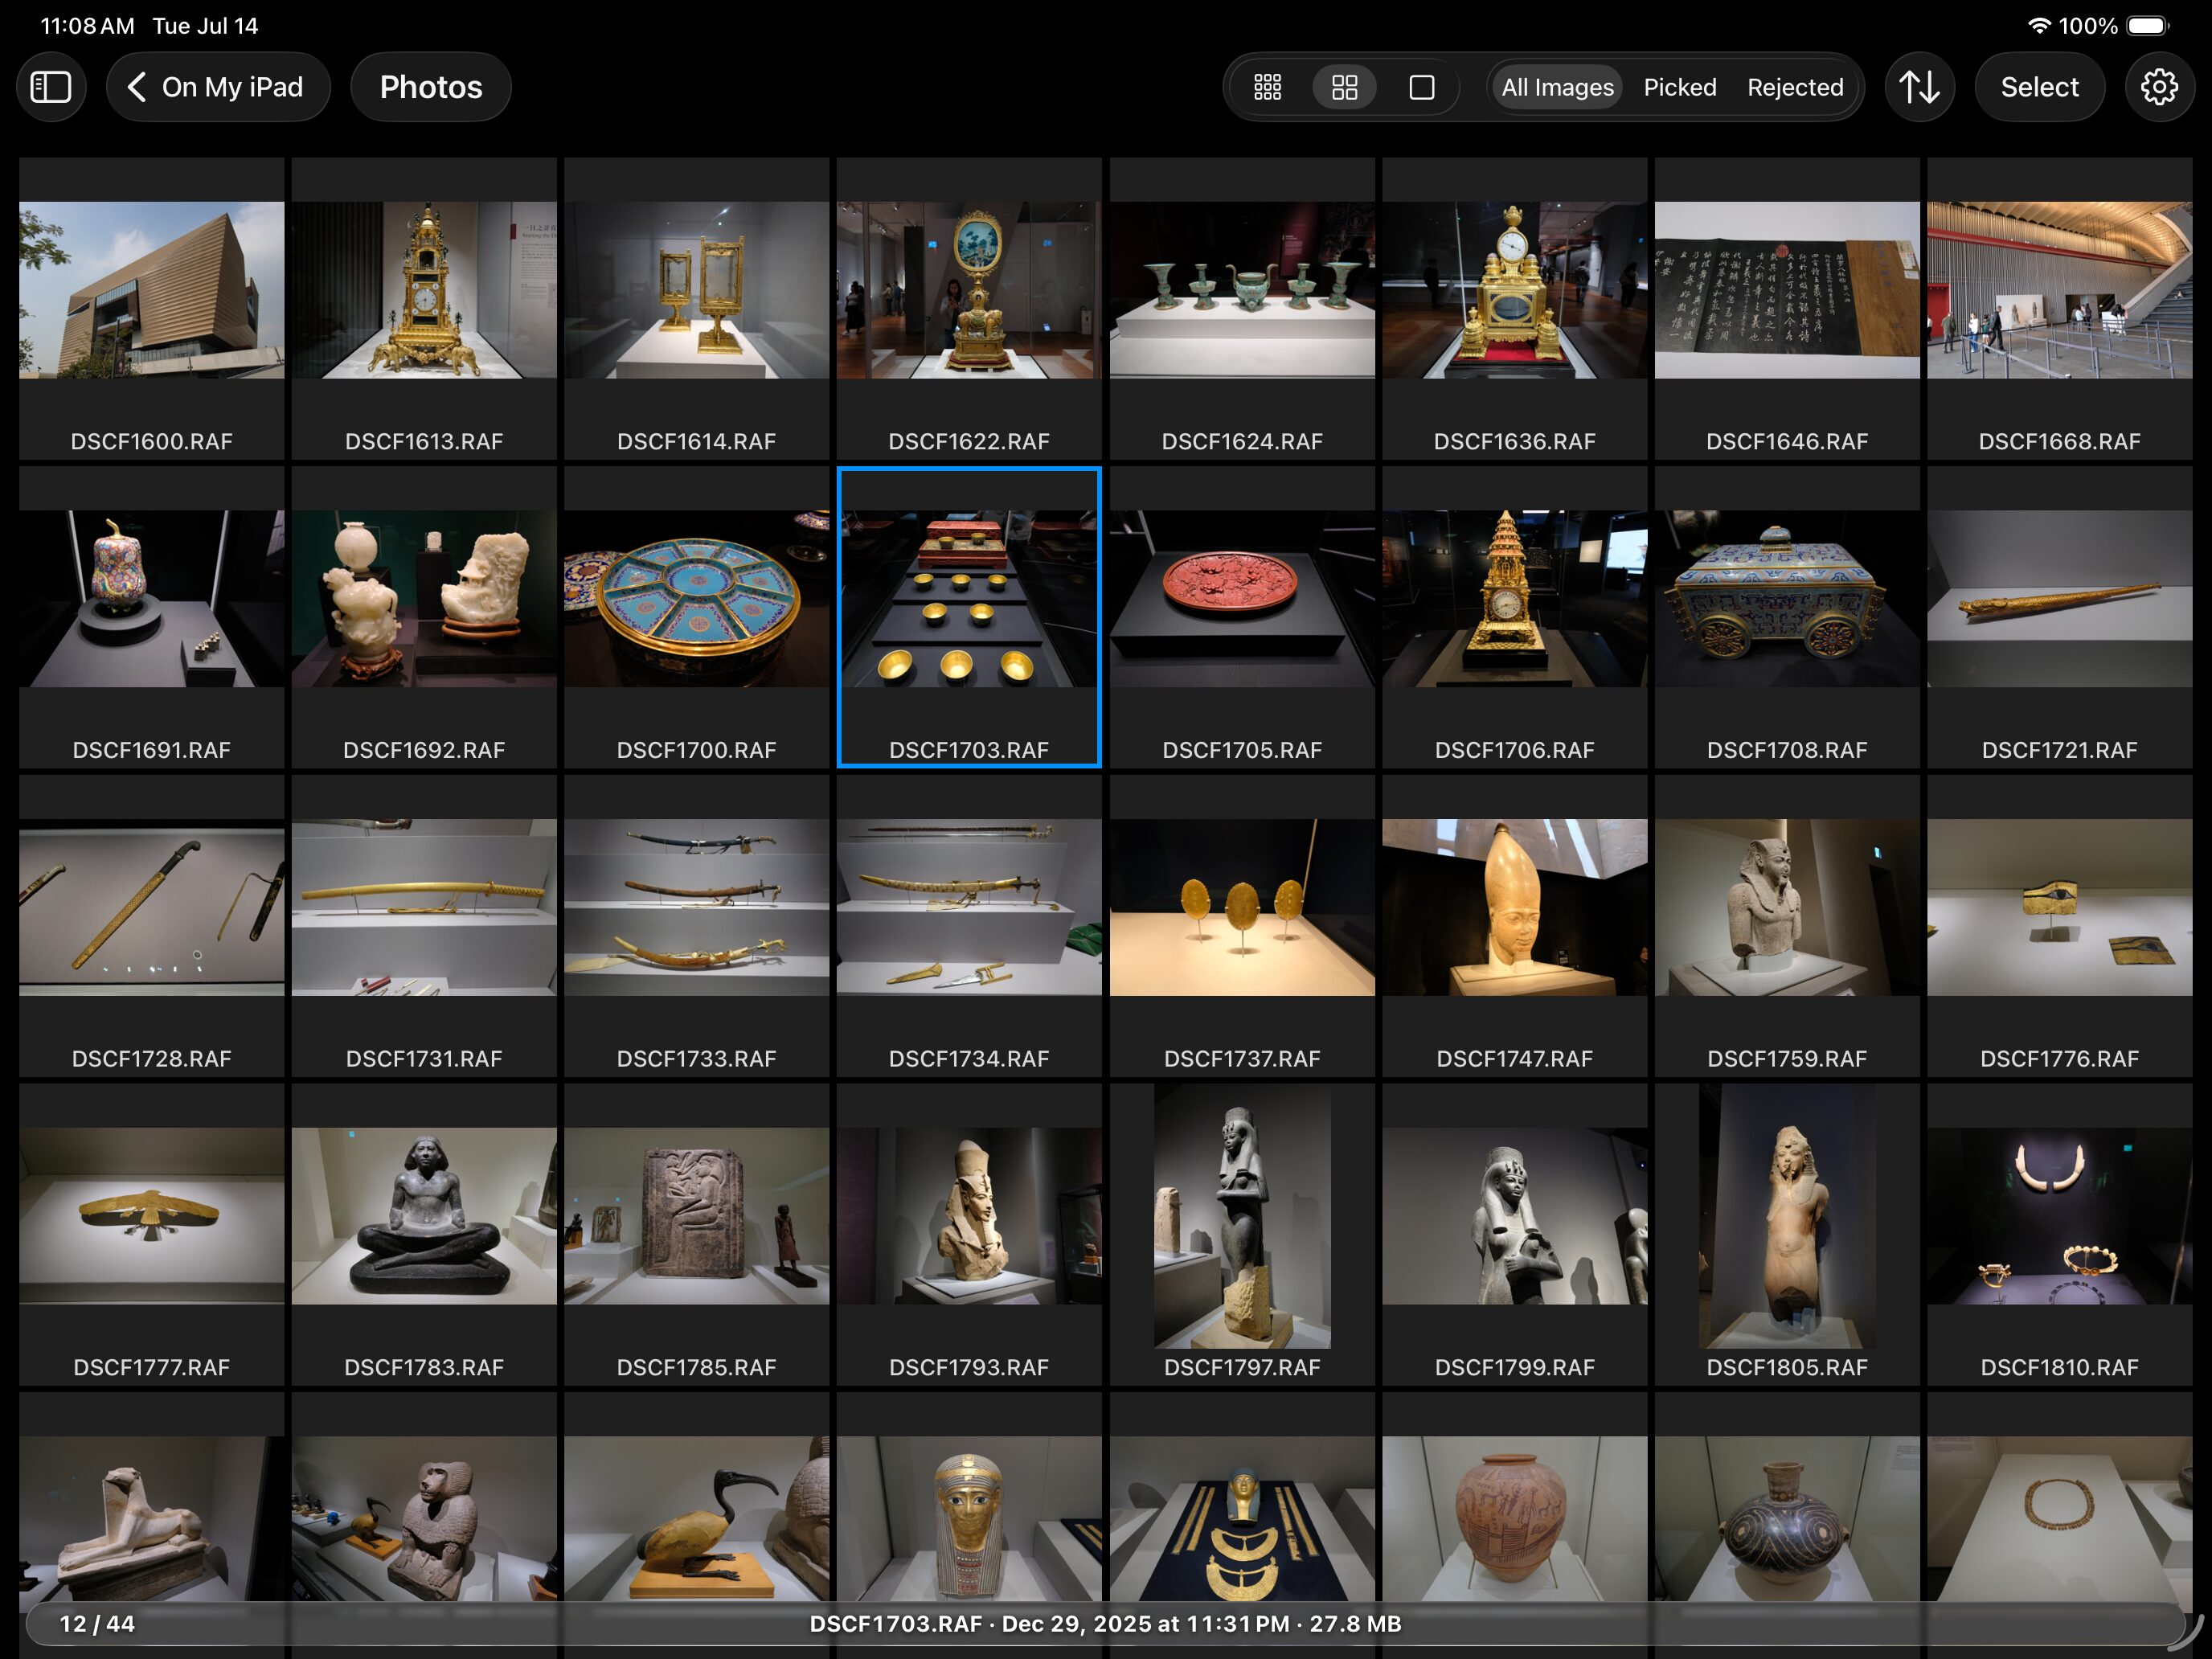
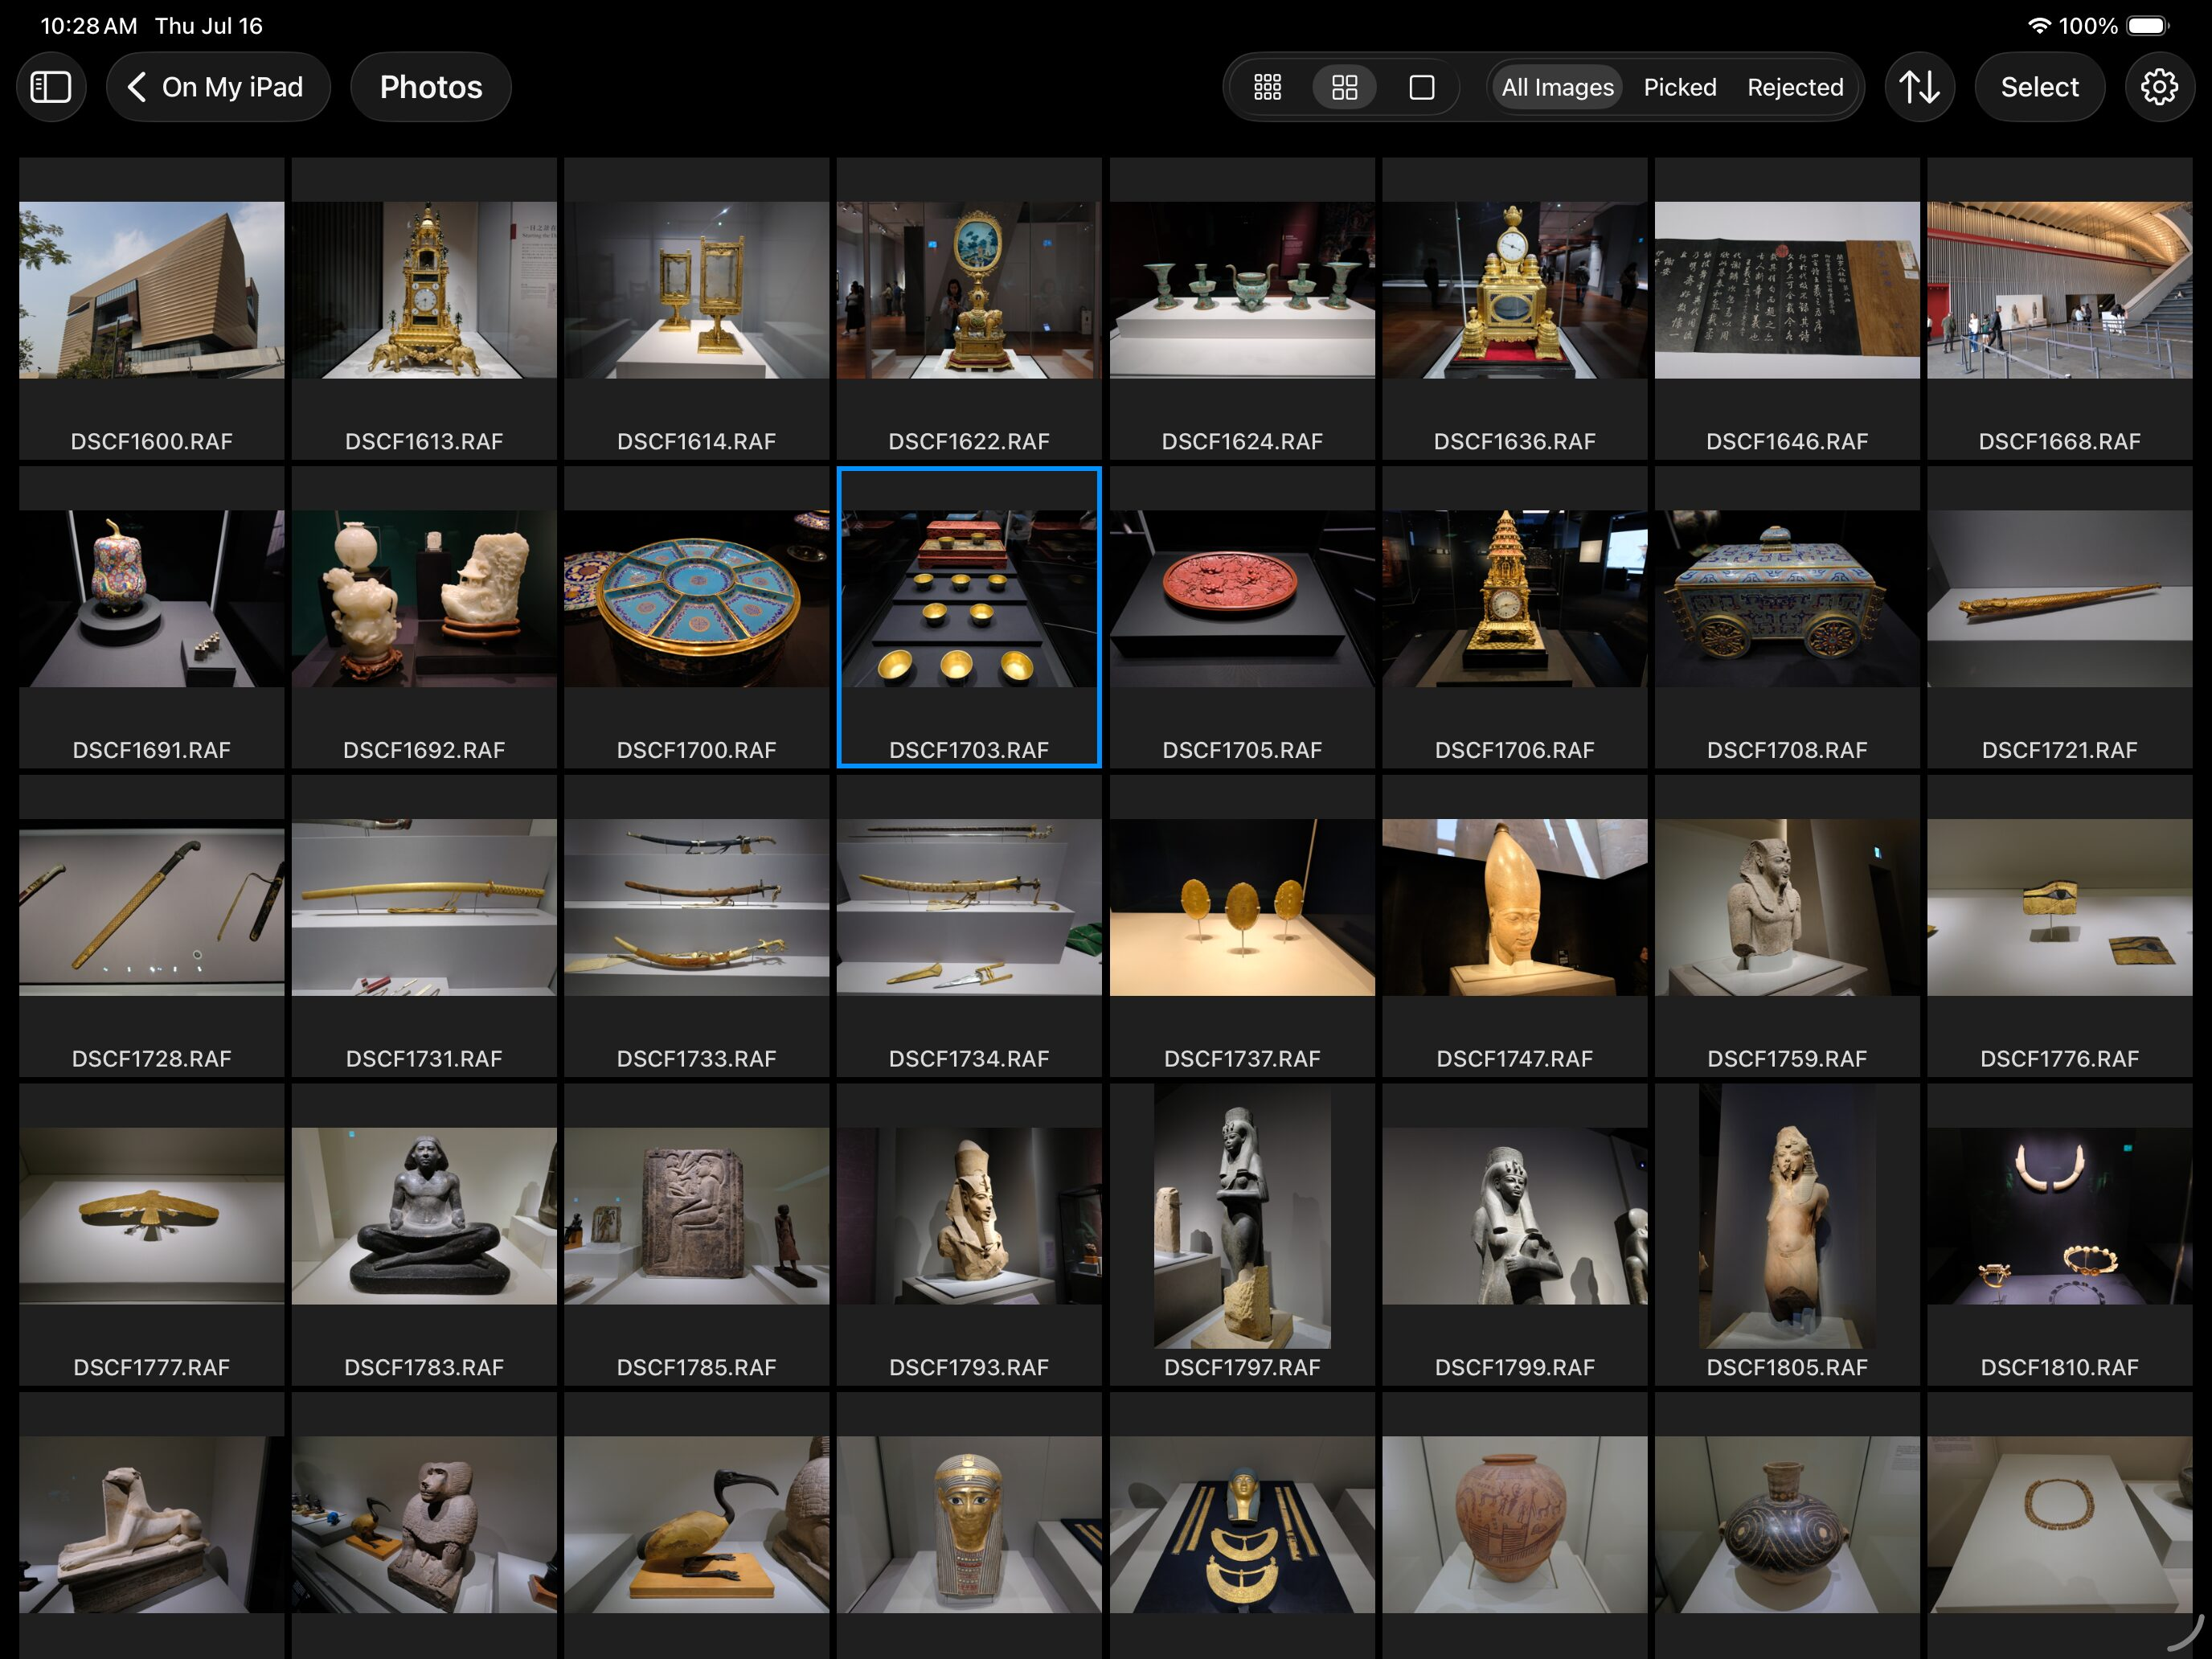
GO page: refresh the three reshot iPad screenshots (Build 263 UI) — viewer and culling shots now show the exposure-info pill (ISO / aperture / shutter / EV) under the title, the contact sheet loses the bottom status bar. Page text follows: the Contact Sheet paragraph describes the touch-and-hold inf

Changed region(s): [[0.0, 0.9612, 1.0, 0.9922], [0.0312, 0.0, 0.125, 0.031]]

diff --git a/apolloone-go.html b/apolloone-go.html
@@ -66,10 +66,10 @@
 <section class="feature feature-stacked">
     <div class="feature-text">
         <h2>A Real RAW Viewer, in the Field</h2>
-        <p>Pop the card into a USB-C reader — or open any folder in Files — and swipe through the shoot at <strong>full RAW resolution</strong>, with <strong>HDR display</strong> on HDR-capable devices<sup><a class="footnote-ref" href="#hdr-requirements">*</a></sup>, or the embedded <strong>JPEG preview</strong> when speed matters most. Overlay the <strong>AF points</strong> and <strong>faces</strong> your camera recorded to verify focus at a glance, and see exactly which decoder rendered each file, right in the title badge.</p>
+        <p>Pop the card into a USB-C reader — or open any folder in Files — and swipe through the shoot at <strong>full RAW resolution</strong>, with <strong>HDR display</strong> on HDR-capable devices<sup><a class="footnote-ref" href="#hdr-requirements">*</a></sup>, or the embedded <strong>JPEG preview</strong> when speed matters most. Overlay the <strong>AF points</strong> and <strong>faces</strong> your camera recorded to verify focus at a glance, and see exactly which decoder rendered each file, right in the title badge — with the shot's ISO, aperture, shutter speed, and exposure compensation right below.</p>
     </div>
     <div class="feature-image">
-        <img src="images/apolloone-go-viewer.jpg" alt="ApolloOne GO viewer on iPad with AF point overlay, HDR / AF Points / Faces toggles, and Pick and Reject buttons" loading="lazy">
+        <img src="images/apolloone-go-viewer.jpg" alt="ApolloOne GO viewer on iPad with AF point overlay, HDR / AF Points / Faces toggles, exposure info under the file name, and Pick and Reject buttons" loading="lazy">
     </div>
 </section>
 
@@ -107,10 +107,10 @@
 <section class="feature feature-stacked">
     <div class="feature-text">
         <h2>Contact Sheet</h2>
-        <p>Browse the whole shoot in a <strong>thumbnail grid</strong> with three zoom levels, sorting, and one-tap filters for <strong>All, Picked, and Rejected</strong> images. The status bar keeps the selected file's name, capture date, and size in view — so you always know what you're looking at.</p>
+        <p>Browse the whole shoot in a <strong>thumbnail grid</strong> with three zoom levels, sorting, and one-tap filters for <strong>All, Picked, and Rejected</strong> images. Touch and hold a thumbnail, then drag: a small card follows your finger with each image's name, date, size, and exposure info — compare shots without opening them.</p>
     </div>
     <div class="feature-image">
-        <img src="images/apolloone-go-contact-sheet.jpg" alt="ApolloOne GO contact sheet showing a grid of RAW thumbnails with filters and file info bar" loading="lazy">
+        <img src="images/apolloone-go-contact-sheet.jpg" alt="ApolloOne GO contact sheet showing a grid of RAW thumbnails with view, filter, and sort controls" loading="lazy">
     </div>
 </section>
 